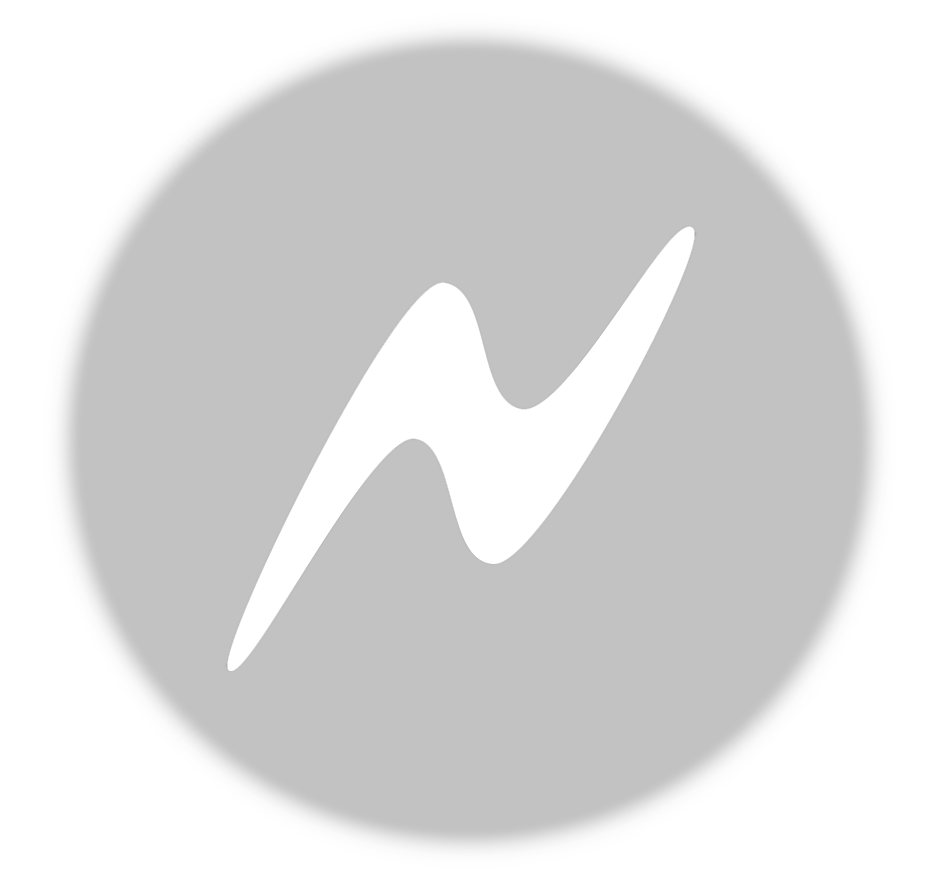
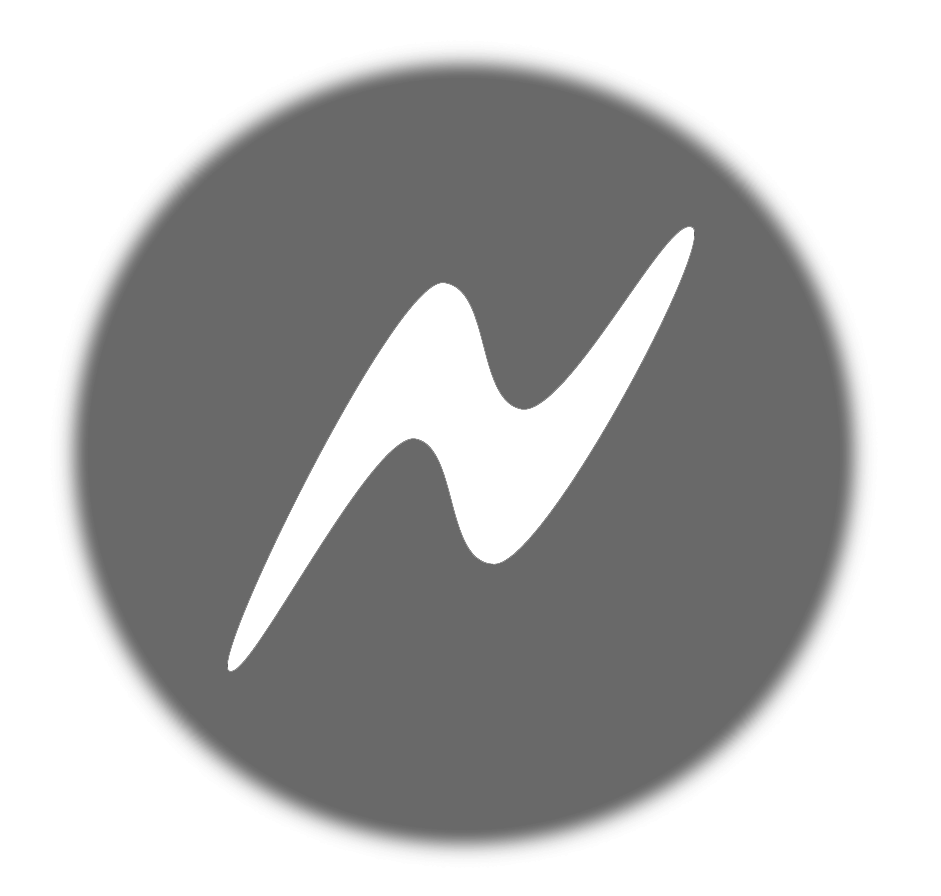
Add files via upload

diff --git a/Blender.html b/Blender.html
@@ -45,7 +45,7 @@
                 <button type="button" class="navbar-toggle" data-toggle="collapse" data-target="#bs-example-navbar-collapse-1">
                     <span class="sr-only">Toggle navigation</span> Menu <i class="fa fa-bars"></i>
                 </button>
-                <a class="navbar-brand" href="index.html" font-weight=50000>Nathan Dickson</a>
+                <a class="navbar-brand" href="index.html">Nathan Dickson</a>
             </div>
 
             <!-- Collect the nav links, forms, and other content for toggling -->
@@ -72,18 +72,19 @@
                         <a href="index.html"></a>
                     </li>
                     <li class="page-scroll">
-                        <a href="index.html"><img src="img/N_2Blue_FANCY.png" width=70px height=70px></a>
+                        <a href="index.html"><img src="img/N_2_FANCY.png" width=70px height=70px></a>
                 </ul>
             </div>
             <!-- /.navbar-collapse -->
         </div>
         <!-- /.container-fluid -->
     </nav>
+
     <br></br>
 
     <div  class="jumbotron">
       <div class="containerI">
-        <a href="The_Wheel.html"><img src="img/Blender/The_Wheel.jpg" alt="" class="imageI"></a>
+        <a href="The-Wheel.html"><img src="img/Blender/The-Wheel.jpg" alt="" class="imageI"></a>
         <div class="overlayI">
           <div class="textI" align=center>
             <h3>The Wheel</h3>
@@ -95,7 +96,7 @@
 
     <div  class="jumbotron">
       <div class="containerI">
-        <a href="Pin_Cactus.html"><img src="img/Blender/Pin_Cactus.jpg" alt="" class="imageI"></a>
+        <a href="Pin-Cactus.html"><img src="img/Blender/Pin-Cactus.jpg" alt="" class="imageI"></a>
         <div class="overlayI">
           <div class="textI" align=center>
             <h3>Pin Cactus</h3>
@@ -119,7 +120,7 @@
 
     <div  class="jumbotron">
       <div class="containerI">
-        <a href="Pink_Space.html"><img src="img/Blender/Pink_Space.png" alt="" class="imageI"></a>
+        <a href="Pink-Space.html"><img src="img/Blender/Pink-Space.png" alt="" class="imageI"></a>
         <div class="overlayI">
           <div class="textI" align=center>
             <h3>Pink Space</h3>
@@ -131,7 +132,7 @@
 
     <div  class="jumbotron">
       <div class="containerI">
-        <a href="Lucky_3.html"><img src="img/Blender/Lucky_3.jpg" alt="" class="imageI"></a>
+        <a href="Lucky-3.html"><img src="img/Blender/Lucky-3.jpg" alt="" class="imageI"></a>
         <div class="overlayI">
           <div class="textI" align=center>
             <h3>Lucky 3</h3>
@@ -143,7 +144,7 @@
 
     <div  class="jumbotron">
       <div class="containerI">
-        <a href="Plunger_Parade.html"><img src="img/Blender/Plunger_Parade.png" alt="" class="imageI"></a>
+        <a href="Plunger-Parade.html"><img src="img/Blender/Plunger-Parade.png" alt="" class="imageI"></a>
         <div class="overlayI">
           <div class="textI" align=center>
             <h3>Plunger Parade</h3>
@@ -159,7 +160,7 @@
         <div class="overlayI">
           <div class="textI" align=center>
             <h3>Swing</h3>
-            <p>This swing is modeled after the ones I have in my backyard. However, I don't have the view.</p>
+            <p>This swing is modeled after ones I have in my own backyard. I, however, don't have the view.</p>
           </div>
         </div>
       </div>
@@ -167,8 +168,8 @@
 
     <div  class="jumbotron">
       <div class="containerI">
-        <a href="My_Benge.html"><img src="img/Blender/My_Benge.jpg" alt="" class="imageI"></a>
-        <a href="My_Benge_Golden.html"><img src="img/Blender/My_Benge_Golden.png" alt="" class="imageI"></a>
+        <a href="My-Benge.html"><img src="img/Blender/My-Benge.jpg" alt="" class="imageI"></a>
+        <a href="My-Benge-Golden.html"><img src="img/Blender/My-Benge-Golden.png" alt="" class="imageI"></a>
         <div class="overlayI">
           <div class="textI" align=center>
             <h3>My Benge</h3>
@@ -180,11 +181,11 @@
 
     <div  class="jumbotron">
       <div class="containerI">
-        <a href="A_Snowman.html"><img src="img/Blender/A_Snowman.png" alt="" class="imageI"></a>
+        <a href="A-Snowman.html"><img src="img/Blender/A-Snowman.png" alt="" class="imageI"></a>
         <div class="overlayI">
           <div class="textI" align=center>
             <h3>A Snowman</h3>
-            <p>And, for a change of things . . . a snow man! You've got to figure out the extra nose.</p>
+            <p>And, for a change of things... a snow man! You've got to figure out the extra nose.</p>
           </div>
         </div>
       </div>
@@ -204,7 +205,7 @@
 
     <div  class="jumbotron">
       <div class="containerI">
-        <a href="Grandfather_Clock.html"><img src="img/Blender/Grandfather_Clock.png" alt="" class="imageI"></a>
+        <a href="Grandfather-Clock.html"><img src="img/Blender/Grandfather-Clock.png" alt="" class="imageI"></a>
         <div class="overlayI">
           <div class="textI" align=center>
             <h3>Grandfather Clock</h3>
@@ -216,7 +217,7 @@
 
     <div  class="jumbotron">
       <div class="containerI">
-        <a href="Taffy_Wood.html"><img src="img/Blender/Taffy_Wood.png" alt="" class="imageI"></a>
+        <a href="Taffy-Wood.html"><img src="img/Blender/Taffy-Wood.png" alt="" class="imageI"></a>
         <div class="overlayI">
           <div class="textI" align=center>
             <h3>Taffy Wood</h3>
@@ -237,6 +238,120 @@
         </div>
       </div>
     </div>
+
+    <div  class="jumbotron">
+      <div class="containerI">
+        <a href="Just-a-Slice.html"><img src="img/Blender/Just-a-Slice.jpg" alt="" class="imageI"></a>
+        <div class="overlayI">
+          <div class="textI" align=center>
+            <h3>Just a Slice</h3>
+            <p>This was a party, metaphorically of course, to make. With every tweak I imagined it tasting that much better.</p>
+          </div>
+        </div>
+      </div>
+    </div>
+
+    <div  class="jumbotron">
+      <div class="containerI">
+        <a href="The-Abstract-Ball.html"><img src="img/Blender/The-Abstract-Ball.png" alt="" class="imageI"></a>
+        <div class="overlayI">
+          <div class="textI" align=center>
+            <h3>The Abstract Ball</h3>
+            <p>Another one of those short, fun, projects. Depth of field does wonders for this image.</p>
+          </div>
+        </div>
+      </div>
+    </div>
+
+    <div  class="jumbotron">
+      <div class="containerI">
+        <a href="Google-Doodle.html"><img src="img/Blender/Google-Doodle.png" alt="" class="imageI"></a>
+        <div class="overlayI">
+          <div class="textI" align=center>
+            <h3>Google Doodle</h3>
+            <p>This project was a blast to create. I origionally made it with plans to submit it to the Doodle 4 Google competition, but I was literally one second too late to submit. It was fun to put my knowledge to the test though.<br><br>How do you think we'll colonize mars?</p>
+          </div>
+        </div>
+      </div>
+    </div>
+
+    <div  class="jumbotron">
+      <div class="containerI">
+        <a href="Afloat.html"><img src="img/Blender/Afloat.jpg" alt="" class="imageI"></a>
+        <div class="overlayI">
+          <div class="textI" align=center>
+            <h3>Afloat</h3>
+            <p>This was my representation of a common, yet beautiful lily flower I see often near my house.</p>
+          </div>
+        </div>
+      </div>
+    </div>
+
+    <div  class="jumbotron">
+      <div class="containerI">
+        <a href="White-and-Black.html"><img src="img/Blender/White-and-Black.jpg" alt="" class="imageI"></a>
+        <div class="overlayI">
+          <div class="textI" align=center>
+            <h3>White and Black</h3>
+            <p>Ever need something to do?<br><br>Pull out an IKEA magazine and try your hand at modeling some funiture on Blender, or even a whole room!</p>
+          </div>
+        </div>
+      </div>
+    </div>
+
+    <div  class="jumbotron">
+      <div class="containerI">
+        <a href="Blue20.html"><img src="img/Blender/Blue20.png" alt="" class="imageI"></a>
+        <div class="overlayI">
+          <div class="textI" align=center>
+            <h3>Blue20</h3>
+            <p>A perfect blend of blue genes and H20.</p>
+          </div>
+        </div>
+      </div>
+    </div>
+
+    <div  class="jumbotron">
+      <div class="containerI">
+        <a href="Error-Ball.html"><img src="img/Blender/Error-Ball.png" alt="" class="imageI"></a>
+        <div class="overlayI">
+          <div class="textI" align=center>
+            <h3>Error Ball</h3>
+            <p>I believe you could fill a museum with 3D, abstract art like this.</p>
+          </div>
+        </div>
+      </div>
+    </div>
+
+    <div  class="jumbotron">
+      <div class="containerI">
+        <a href="Colorful-Blend.html"><img src="img/Blender/Colorful-Blend.jpg" alt="" class="imageI"></a>
+        <div class="overlayI">
+          <div class="textI" align=center>
+            <h3>Colorful Blend</h3>
+            <p>Here's a colorful blend, spiraling into white.</p>
+          </div>
+        </div>
+      </div>
+    </div>
+
+
+
+    <section id="contact" class="homepagetext">
+        <div class="container">
+            <div class="row">
+                <div class="col-lg-4 col-lg-offset-2 text-center">
+                    <i class="fa fa-phone fa-3x sr-contact"></i>
+                    <p>(801)609-1044</p>
+                </div>
+                <div class="col-lg-4 text-center">
+                    <i class="fa fa-envelope-o fa-3x sr-contact"></i>
+                    <p><a href="mailto:nathandickson365@gmail.com">nathandickson365@gmail.com</a></p>
+                </div>
+            </div>
+        </div>
+    </section>
+
 
 
     <!-- jQuery -->

diff --git a/vendor/bootstrap/css/bootstrap_nathan.css b/vendor/bootstrap/css/bootstrap_nathan.css
@@ -1089,7 +1089,7 @@ body {
     font-family: "Helvetica Neue", Helvetica, Arial, sans-serif;
     font-size: 14px;
     line-height: 1.42857143;
-    color: #333;
+    color: #eee;
     background-color: #fff
 }
 input,
@@ -4356,10 +4356,10 @@ select[multiple].input-group-sm>.input-group-btn>.btn {
     position: relative;
     float: right;
     padding: 9px 10px;
-    margin-top: 8px;
+    margin-top: 6px;
     margin-right: 15px;
-    margin-bottom: 8px;
-    background-color: transparent;
+    margin-bottom: 0px;
+    background-color: #242b3e;
     background-image: none;
     border: 1px solid transparent;
     border-radius: 4px
@@ -4580,7 +4580,7 @@ select[multiple].input-group-sm>.input-group-btn>.btn {
 .navbar-default .navbar-nav>.active>a:hover,
 .navbar-default .navbar-nav>.active>a:focus {
     color: #555;
-    background-color: #e7e7e7
+    background-color: #333846
 }
 .navbar-default .navbar-nav>.disabled>a,
 .navbar-default .navbar-nav>.disabled>a:hover,
@@ -4680,7 +4680,7 @@ fieldset[disabled] .navbar-default .btn-link:focus {
 .navbar-inverse .navbar-nav>.active>a:hover,
 .navbar-inverse .navbar-nav>.active>a:focus {
     color: #fff;
-    background-color: #080808
+    background-color: #242b3e
 }
 .navbar-inverse .navbar-nav>.disabled>a,
 .navbar-inverse .navbar-nav>.disabled>a:hover,
@@ -4689,11 +4689,11 @@ fieldset[disabled] .navbar-default .btn-link:focus {
     background-color: transparent
 }
 .navbar-inverse .navbar-toggle {
-    border-color: #333
+    border-color: transparent
 }
 .navbar-inverse .navbar-toggle:hover,
 .navbar-inverse .navbar-toggle:focus {
-    background-color: #333
+    background-color: #1d2331
 }
 .navbar-inverse .navbar-toggle .icon-bar {
     background-color: #fff
@@ -7241,13 +7241,14 @@ body {
     display: inline-block
 }
 .homepagetext {
-    color: #999
+    color: #d1d1d1;
+    background-color: #131623;
 }
 .imgtitles {
     font-family: "Merriweather";
     font-style: bold;
     font-weight: 100;
-    color: #FFFFFF
+    color: #000000
 }
 
 

diff --git a/index.html b/index.html
@@ -38,8 +38,26 @@
 
 </head>
 
-<body id="page-top" style="background-color:#000000;">
+  <body id="page-top" style="background-color:#000000;">
 
+    <nav id="mainNav">
+
+            <!-- Brand and toggle get grouped for better mobile display -->
+
+            <!-- Collect the nav links, forms, and other content for toggling -->
+            <div class="collapse navbar-collapse" id="bs-example-navbar-collapse-1">
+                <ul class="nav navbar-nav navbar-fixed-bottom">
+                    <li class="hidden">
+                        <a href="index.html"></a>
+                    </li>
+                    <li class="page-scroll">
+                        <a href="index.html"><img src="img/N_2_FANCY.png" width=70px height=70px></a>
+                </ul>
+            </div>
+            <!-- /.navbar-collapse -->
+        </div>
+        <!-- /.container-fluid -->
+    </nav>
 
     <header>
         <div class="header-content">
